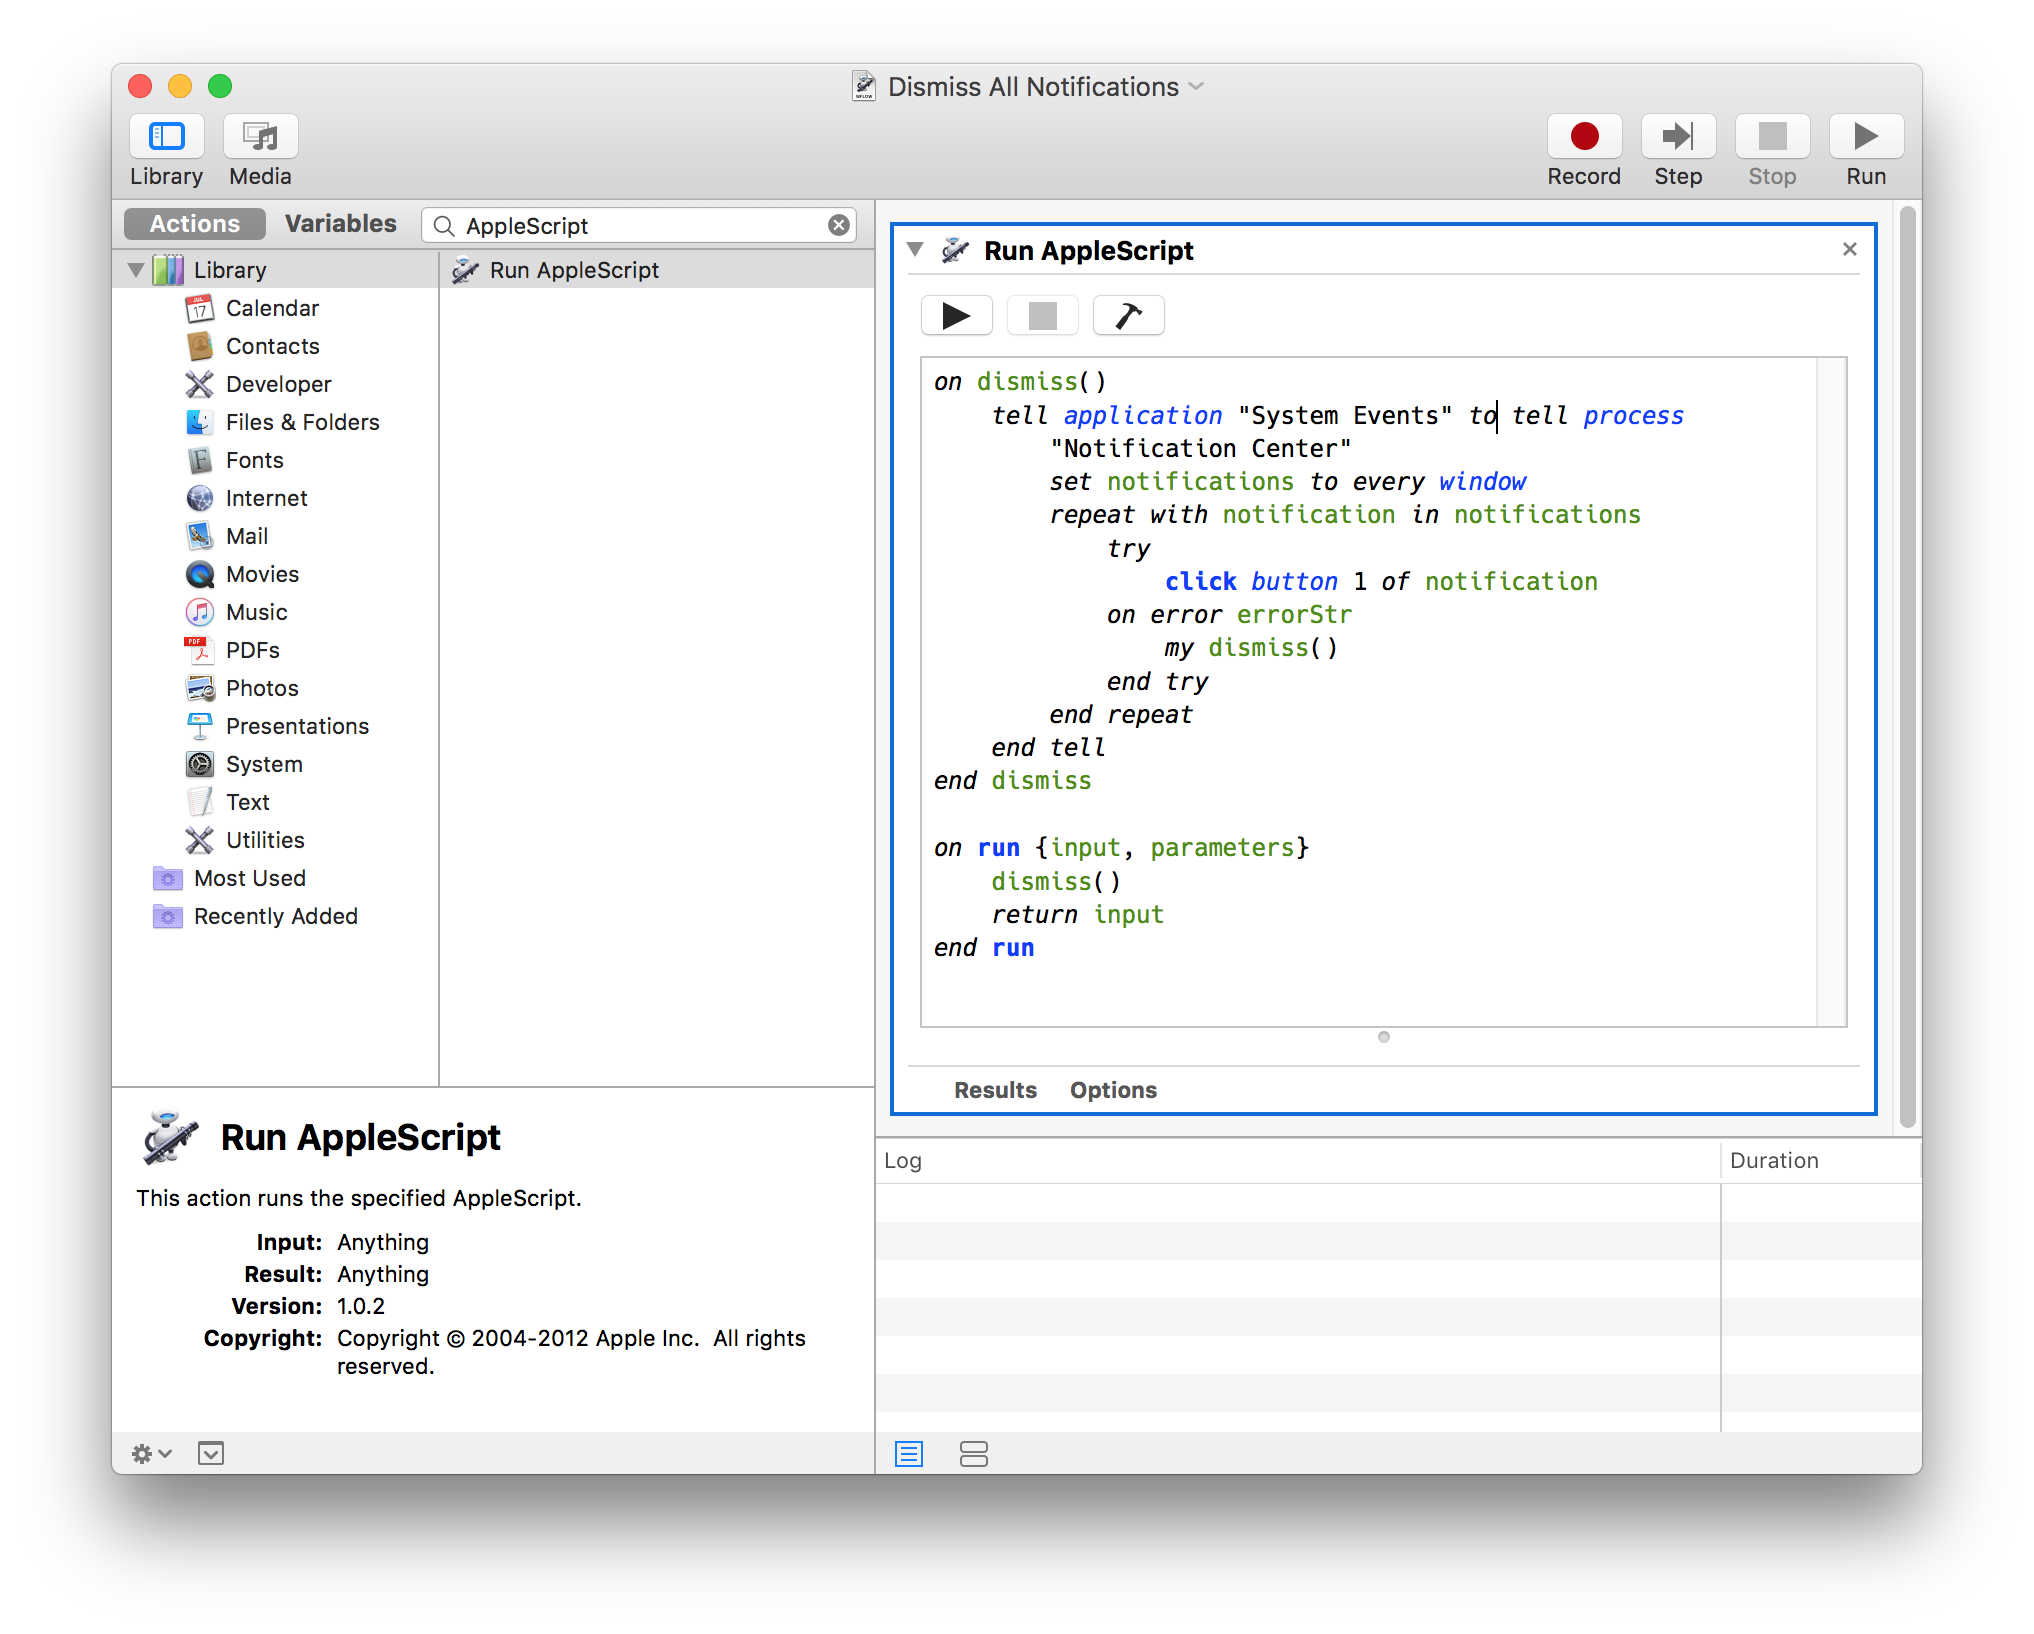
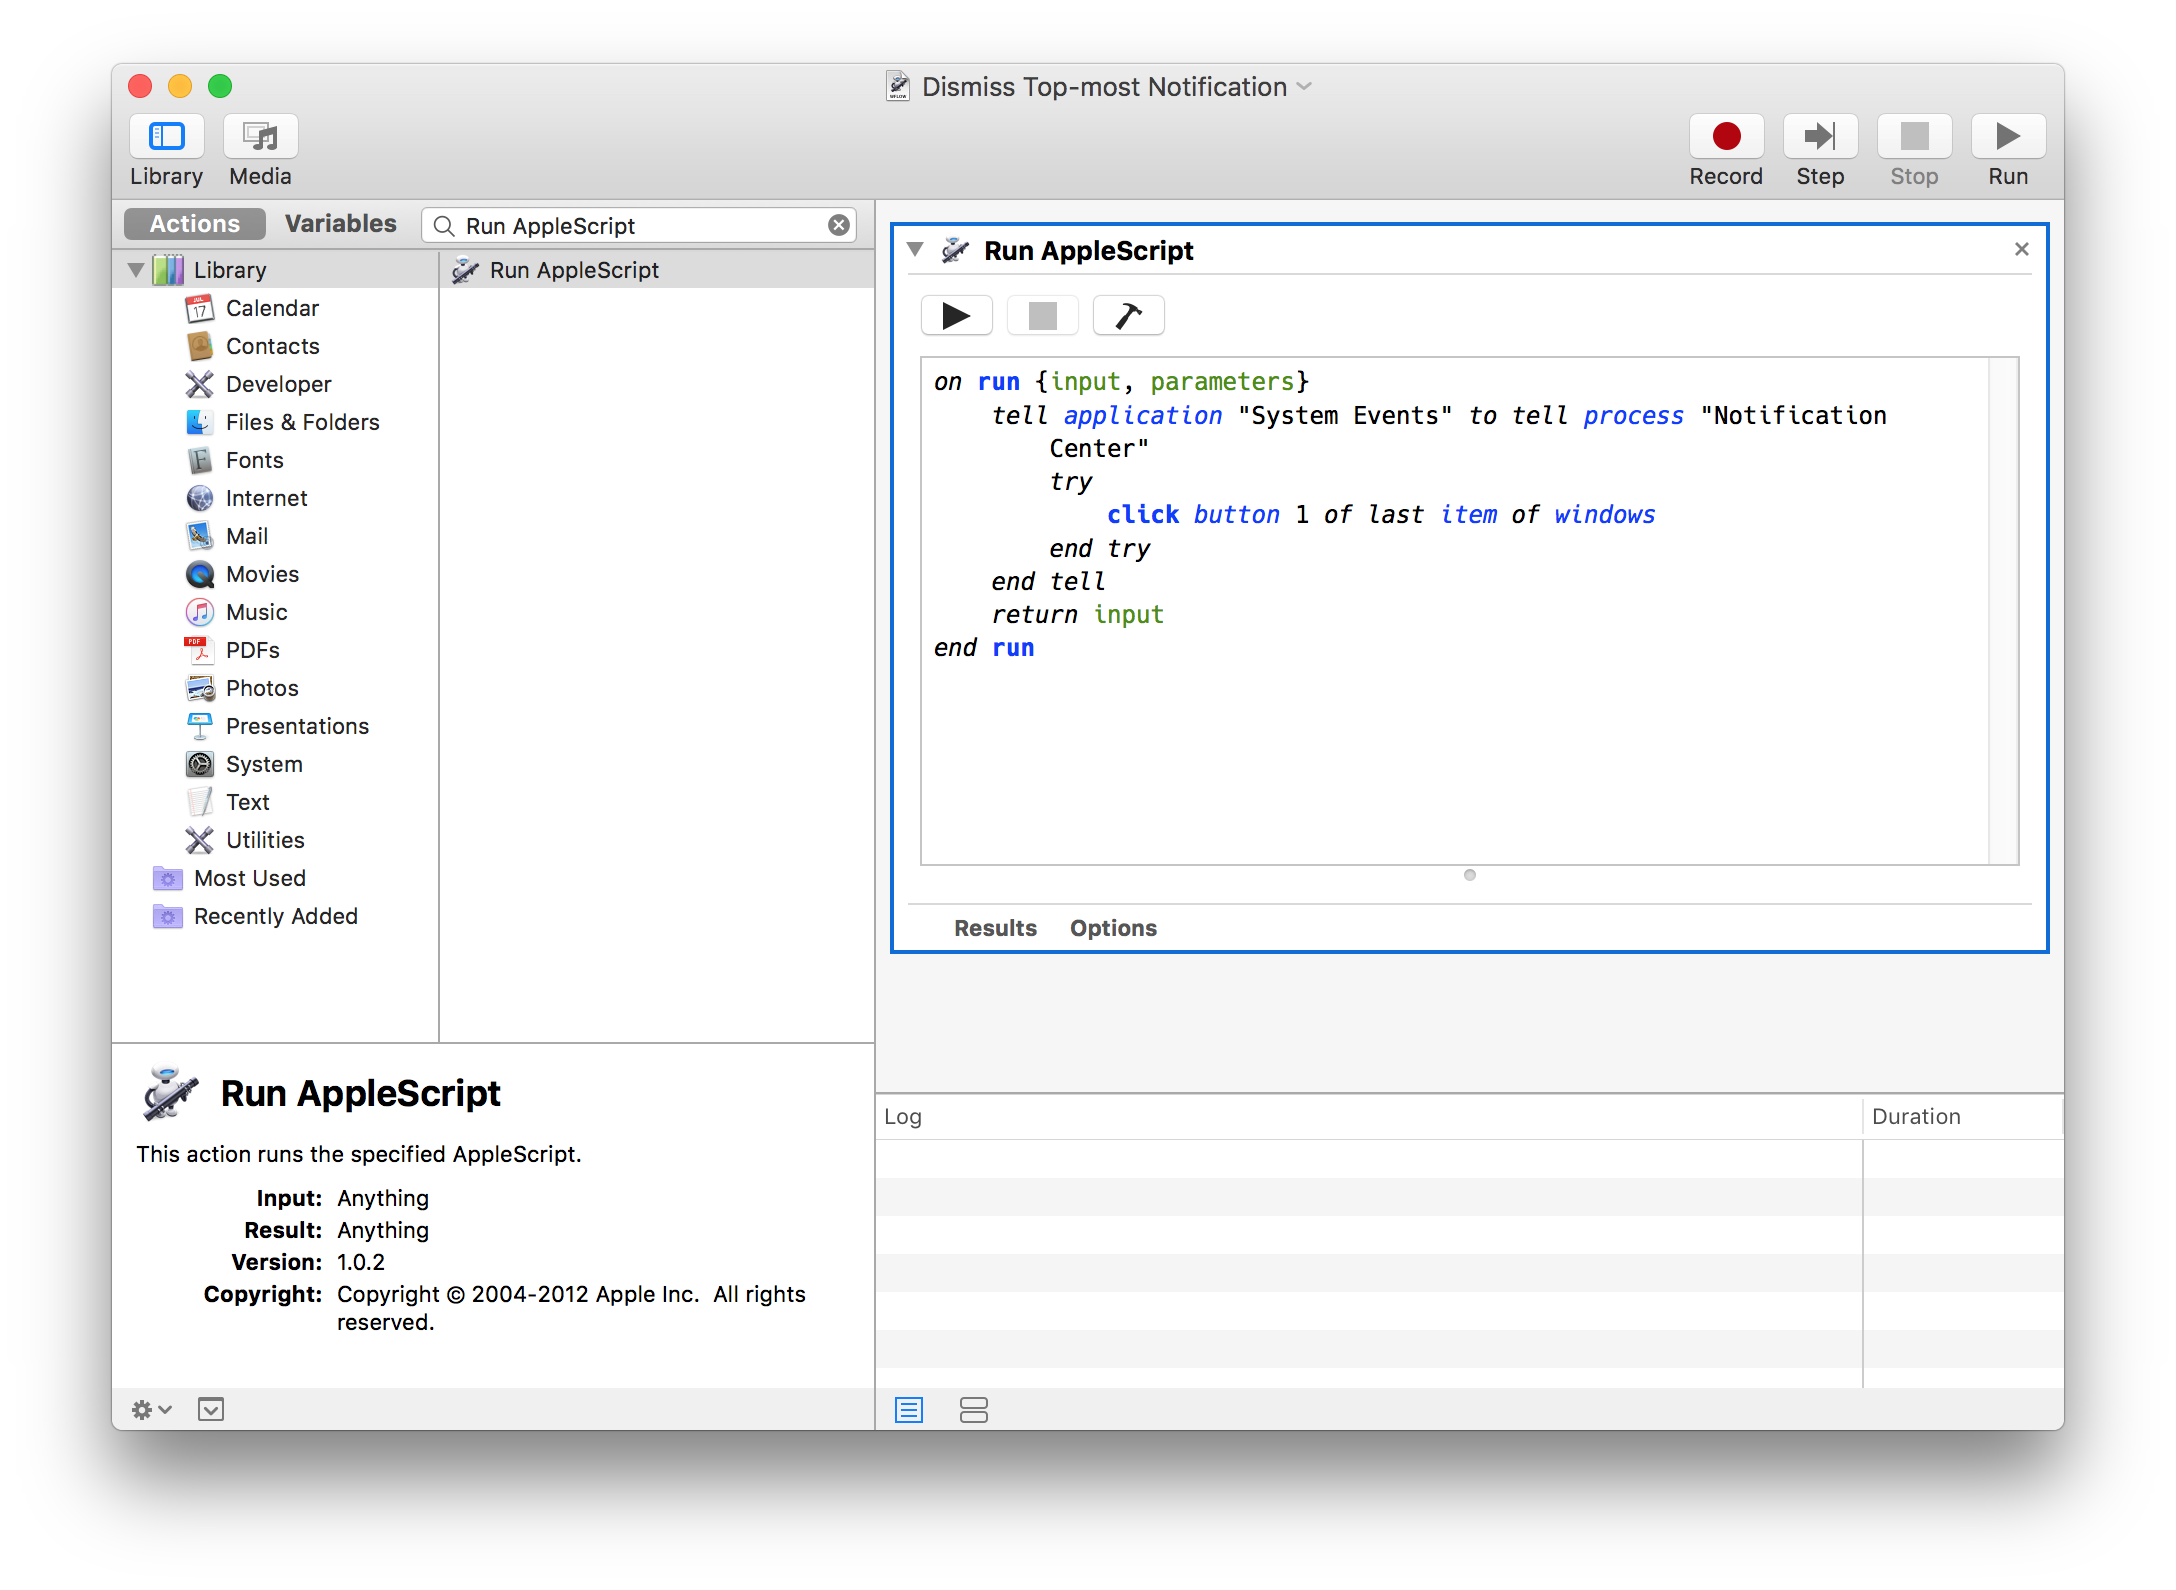
Better Applescript

Changed region(s): [[0.031, 0.0308, 0.9602, 0.9245], [0.4027, 0.0308, 0.5885, 0.0616], [0.3717, 0.6472, 0.4027, 0.678]]

diff --git a/app/_posts/2016-01-17-breeze-through-osx-notifications-with-effiency-through-keyboard-shortcuts.md b/app/_posts/2016-01-17-breeze-through-osx-notifications-with-effiency-through-keyboard-shortcuts.md
@@ -62,26 +62,16 @@ save the workflow somewhere you can find it later on.
 
 _Actions > Run AppleScript..._
 {% highlight applescript %}
-on dismiss()
-   tell application "System Events" to tell process "Notification Center"
-        set notifications to every window
-        repeat with notification in notifications
-            try
-                click button 1 of notification
-            on error
-                my dismiss()
-            end try
-        end repeat
-    end tell
-end dismiss
-
 on run {input, parameters}
-    dismiss()
+    tell application "System Events" to tell process "Notification Center"
+        click button 1 in every window
+    end tell
     return input
 end run
 {% endhighlight %}
 
-> I must give credit to ___markhunte___ from the _Ask Different_ as I more or less lifted this straight out of his post and just cleaned up the code a little bit.
+> I must give credit to ___markhunte___ from the _Ask Different_ as this accomplish almost exactly what his script does, albeit rewritten more
+concisely.
 
 #### 1.2 Dismiss Top-most Notification.workflow
 
@@ -179,9 +169,9 @@ My mapping is as follows:
 
 Try it out! Go ahead and prune thorugh your alert notifications with more effiency. Or, actually learn to turn on _"Do Not Disturb"_ once in a while (no judgement here -- I am also guilty of this.)
 
-> __Extra protip:__ You can quickly toggle _"Do Not Disturb"_ by Option-clicking
+> __Extra keyboard-fu protip:__ You can quickly toggle _"Do Not Disturb"_ by Option-clicking
 on the _Notification Center_ icon on the menu bar, or you can actually assign
 a global hotkey to toggle it in _System Preferences > Keyboard > Shortcuts
-> Mission Control > Turn Do Not Disturb On/Off_ for extra keyboard-ninja creds.
+> Mission Control > Turn Do Not Disturb On/Off_
 (It's so simple I don't even know why I don't bother to do this.)
 
